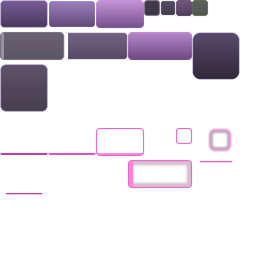
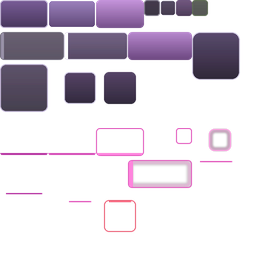
style: Personaliza los cuadros emergentes y de aviso

diff --git a/herramientas/menus.py b/herramientas/menus.py
@@ -74,6 +74,9 @@ piece(128, 32, 64, 28, 4, (112, 64, 160, 255), (66, 34, 100, 255), MAG, bar=((25
 piece(192, 32, 48, 48, 8, (52, 32, 82, 245), (24, 16, 38, 245), (128, 96, 176, 255), topline=MAG)
 piece(0, 64, 48, 48, 6, (40, 24, 62, 215), (22, 14, 36, 215), (118, 86, 166, 255), topline=(185, 56, 164, 255))
 
+piece(64, 72, 32, 32, 5, (50, 31, 78, 248), (28, 18, 44, 248), (128, 96, 176, 255), topline=MAG)
+piece(104, 72, 32, 32, 5, (50, 31, 78, 248), (28, 18, 44, 248), (236, 96, 120, 255), accent=True, topline=(236, 96, 120, 255))
+
 g = Image.new("RGBA", (24 * S, 24 * S), (0, 0, 0, 0))
 ImageDraw.Draw(g).rounded_rectangle([2 * S, 2 * S, 22 * S - 1, 22 * S - 1], 5 * S, outline=(255, 110, 215, 210), width=2 * S)
 g = g.filter(ImageFilter.GaussianBlur(1.2 * S))
